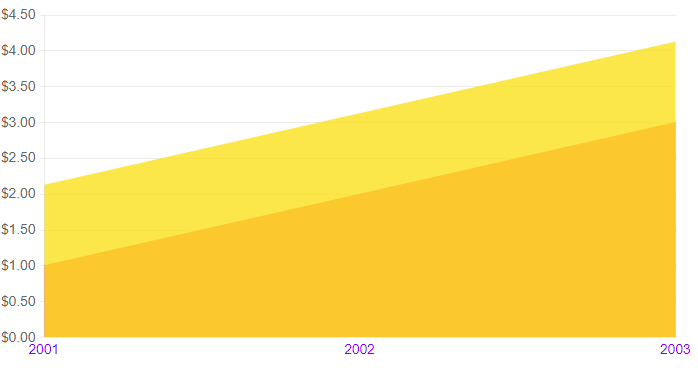
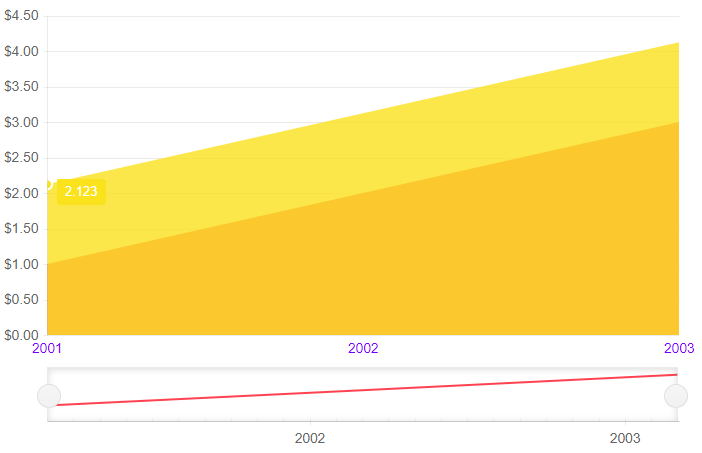
chore(stockchart): added navigator to area type chart

diff --git a/components/stockchart/crosshairs.md b/components/stockchart/crosshairs.md
@@ -27,7 +27,7 @@ To enable the Crosshairs for the `Category` and/or the `Value` axis:
 @* Enable the crosshairs for the StockChart *@
 
 <TelerikStockChart Height="450px"
-                   Width="800px"
+                   Width="750px"
                    DateField="@nameof(StockDataPoint.Date)">
 
     <StockChartCategoryAxes>
@@ -57,6 +57,17 @@ To enable the Crosshairs for the `Category` and/or the `Value` axis:
         </StockChartSeries>
     </StockChartSeriesItems>
 
+    <StockChartNavigator>
+        <StockChartNavigatorSeriesItems>
+            <StockChartNavigatorSeries Type="StockChartSeriesType.Line"
+                                       Name="Product 1"
+                                       Data="@StockChartProduct1Data"
+                                       Field="@(nameof(StockDataPoint.High))"
+                                       CategoryField="@(nameof(StockDataPoint.Date))">
+            </StockChartNavigatorSeries>
+        </StockChartNavigatorSeriesItems>
+    </StockChartNavigator>
+
 </TelerikStockChart>
 
 @code {
@@ -70,7 +81,7 @@ To enable the Crosshairs for the `Category` and/or the `Value` axis:
     public async Task GenerateChartData()
     {
         StockChartProduct1Data = new List<StockDataPoint>()
-        {
+{
             new StockDataPoint(new DateTime(2019, 1, 1), 41.62m, 40.12m, 41.69m, 39.81m, 2632000),
             new StockDataPoint(new DateTime(2019, 2, 1), 39.88m, 40.12m, 41.12m, 39.75m, 3584700),
             new StockDataPoint(new DateTime(2019, 3, 1), 42m, 42.62m, 43.31m, 41.38m, 7631700),
@@ -106,7 +117,6 @@ To enable the Crosshairs for the `Category` and/or the `Value` axis:
         public int Volume { get; set; }
     }
 }
-
 ````
 
 ## Crosshair Appearance Settings
@@ -202,8 +212,6 @@ You can control the appearance of the crosshair by setting the following propert
         public int Volume { get; set; }
     }
 }
-
-
 ````
 
 ![crosshairs appearance customization example](images/crosshairs-appearance-customization-example.gif)

diff --git a/components/stockchart/types/area.md b/components/stockchart/types/area.md
@@ -54,6 +54,18 @@ To add a `Area` chart to a stock chart component:
                           Field="@nameof(ChartSeriesData.Product2Sales)"
                           CategoryField="@nameof(ChartSeriesData.Year)">
         </StockChartSeries>
+
+        <StockChartNavigator>
+            <StockChartNavigatorSeriesItems>
+                <StockChartNavigatorSeries Type="StockChartSeriesType.Line"
+                                           Name="Product 1"
+                                           Data="@Data"
+                                           Field="@(nameof(ChartSeriesData.Product1Sales))"
+                                           CategoryField="@(nameof(ChartSeriesData.Year))">
+                </StockChartNavigatorSeries>
+            </StockChartNavigatorSeriesItems>
+        </StockChartNavigator>
+
     </StockChartSeriesItems>
 
 </TelerikStockChart>
@@ -132,6 +144,17 @@ The color of a series is controlled through the `Color` property that can take a
                           CategoryField="@nameof(ChartSeriesData.Year)">
         </StockChartSeries>
     </StockChartSeriesItems>
+
+    <StockChartNavigator>
+        <StockChartNavigatorSeriesItems>
+            <StockChartNavigatorSeries Type="StockChartSeriesType.Line"
+                                       Name="Product 1"
+                                       Data="@Data"
+                                       Field="@(nameof(ChartSeriesData.Product1Sales))"
+                                       CategoryField="@(nameof(ChartSeriesData.Year))">
+            </StockChartNavigatorSeries>
+        </StockChartNavigatorSeriesItems>
+    </StockChartNavigator>
 
 </TelerikStockChart>
 
